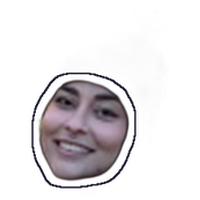
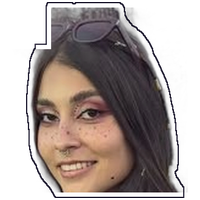
Venezuelan slang bubbles, new Doriana photo, random head tricks (spin, nod, shake, look, pop)

diff --git a/index.html b/index.html
@@ -88,7 +88,7 @@ header.top{display:flex;flex-wrap:wrap;align-items:end;justify-content:space-bet
 .kart .say{left:calc(100% + 10px);bottom:30%;background:#fff;color:#1d1a2e;font-weight:700;font-size:12px;padding:4px 9px;border-radius:12px;white-space:nowrap;opacity:0;transform:translateY(6px) scale(.8);transition:opacity .25s,transform .25s;z-index:6;box-shadow:0 2px 0 rgba(0,0,0,.3)}
 .kart .say::after{content:"";position:absolute;right:100%;top:50%;margin-top:-6px;border:6px solid transparent;border-right-color:#fff}
 .kart .say.on{opacity:1;transform:none}
-.kart .fx,.kart .say{display:none!important}
+.kart .fx{display:none!important}
 .lane[data-mood="joy"] .kart .body{animation:rev 2.6s ease-in-out infinite}
 @keyframes rev{0%,55%,100%{transform:translateX(0) rotate(0)}65%{transform:translateX(5px) rotate(-4deg)}78%{transform:translateX(2px) rotate(0)}}
 .lane[data-mood="joy"] .kart .smoke{animation-duration:.45s}
@@ -99,6 +99,17 @@ header.top{display:flex;flex-wrap:wrap;align-items:end;justify-content:space-bet
 .lane[data-mood="fight"][data-fdir="up"] .kart{animation:nudge-u 3s ease-in-out infinite}
 @keyframes nudge-d{0%,80%,100%{transform:translateY(0)}87%{transform:translateY(6px) rotate(2deg)}}
 @keyframes nudge-u{0%,80%,100%{transform:translateY(0)}87%{transform:translateY(-6px) rotate(-2deg)}}
+/* Head tricks */
+.kart .head.t-spin{animation:hspin 1.1s cubic-bezier(.5,0,.3,1)!important;transform-origin:50% 60%}
+@keyframes hspin{to{transform:rotate(360deg)}}
+.kart .head.t-nod{animation:hnod .35s ease-in-out 3!important}
+@keyframes hnod{50%{transform:translateY(4px) rotate(4deg)}}
+.kart .head.t-shake{animation:hshake .22s ease-in-out 4!important}
+@keyframes hshake{25%{transform:rotate(-12deg)}75%{transform:rotate(12deg)}}
+.kart .head.t-look{animation:hlook 1.6s ease-in-out!important}
+@keyframes hlook{20%,40%{transform:translateX(-4px) rotate(-14deg)}60%,80%{transform:translateX(4px) rotate(14deg)}}
+.kart .head.t-pop{animation:hpop .9s cubic-bezier(.3,1.6,.4,1)!important}
+@keyframes hpop{40%{transform:translateY(-14px) scale(1.18)}}
 /* Season: Navidad */
 body[data-season="navidad"] .race{background:linear-gradient(180deg,#0e2438,#123049)}
 body[data-season="navidad"] .race-head .eyebrow{color:#cfe3f2}
@@ -295,7 +306,14 @@ function moodFX(m){
   if(m==="fight")return `<span class="pow" style="left:20%;top:8%">💥</span><span class="pow" style="left:68%;top:62%;animation-delay:.45s">💥</span><span class="grr">💢</span>`;
   return "";
 }
-const LINES={joy:["¡Nadie me alcanza!","¡Soy el rey!","Jajaja, chao","¡Esto es mío!","Fácil, fácil"],sad:["Snif…","Ya verán…","La próxima…","¿Quién me ayuda?","Esto no es justo"],fight:["¡Muévete!","¡Es mío!","¡Fuera de mi carril!","¡Te voy a pasar!","¡Ni lo sueñes!"]};
+const TRICKS=["t-spin","t-nod","t-shake","t-look","t-pop"];
+setInterval(()=>{
+  if(document.hidden||matchMedia("(prefers-reduced-motion: reduce)").matches)return;
+  const heads=[...document.querySelectorAll(".kart .head")]; if(!heads.length)return;
+  const hd=heads[Math.floor(Math.random()*heads.length)], t=TRICKS[Math.floor(Math.random()*TRICKS.length)];
+  hd.classList.remove(...TRICKS); void hd.getBBox(); hd.classList.add(t); setTimeout(()=>hd.classList.remove(t),1700);
+},1800);
+const LINES={joy:["¡Chamo, qué nivel!","¡Pa' que aprendan!","¡Epa, voy volao!","¡Qué fino!","¡Chévere, chévere!","¡Nadie me alcanza, mi pana!"],sad:["Ay, vale…","¡Qué ladilla!","Chamo, qué vaina","Estoy pelando bola","No joda…","Me tienen loco"],fight:["¡Quítate, pana!","¡Échale bolas!","¡Mosca conmigo!","¡Ni de vaina!","¡Vas a ver, chamo!","¡Dale, pues!"]};
 setInterval(()=>{
   if(document.hidden||matchMedia("(prefers-reduced-motion: reduce)").matches)return;
   const lanes=[...document.querySelectorAll('.lane[data-mood]:not([data-mood=""])')]; if(!lanes.length)return;
